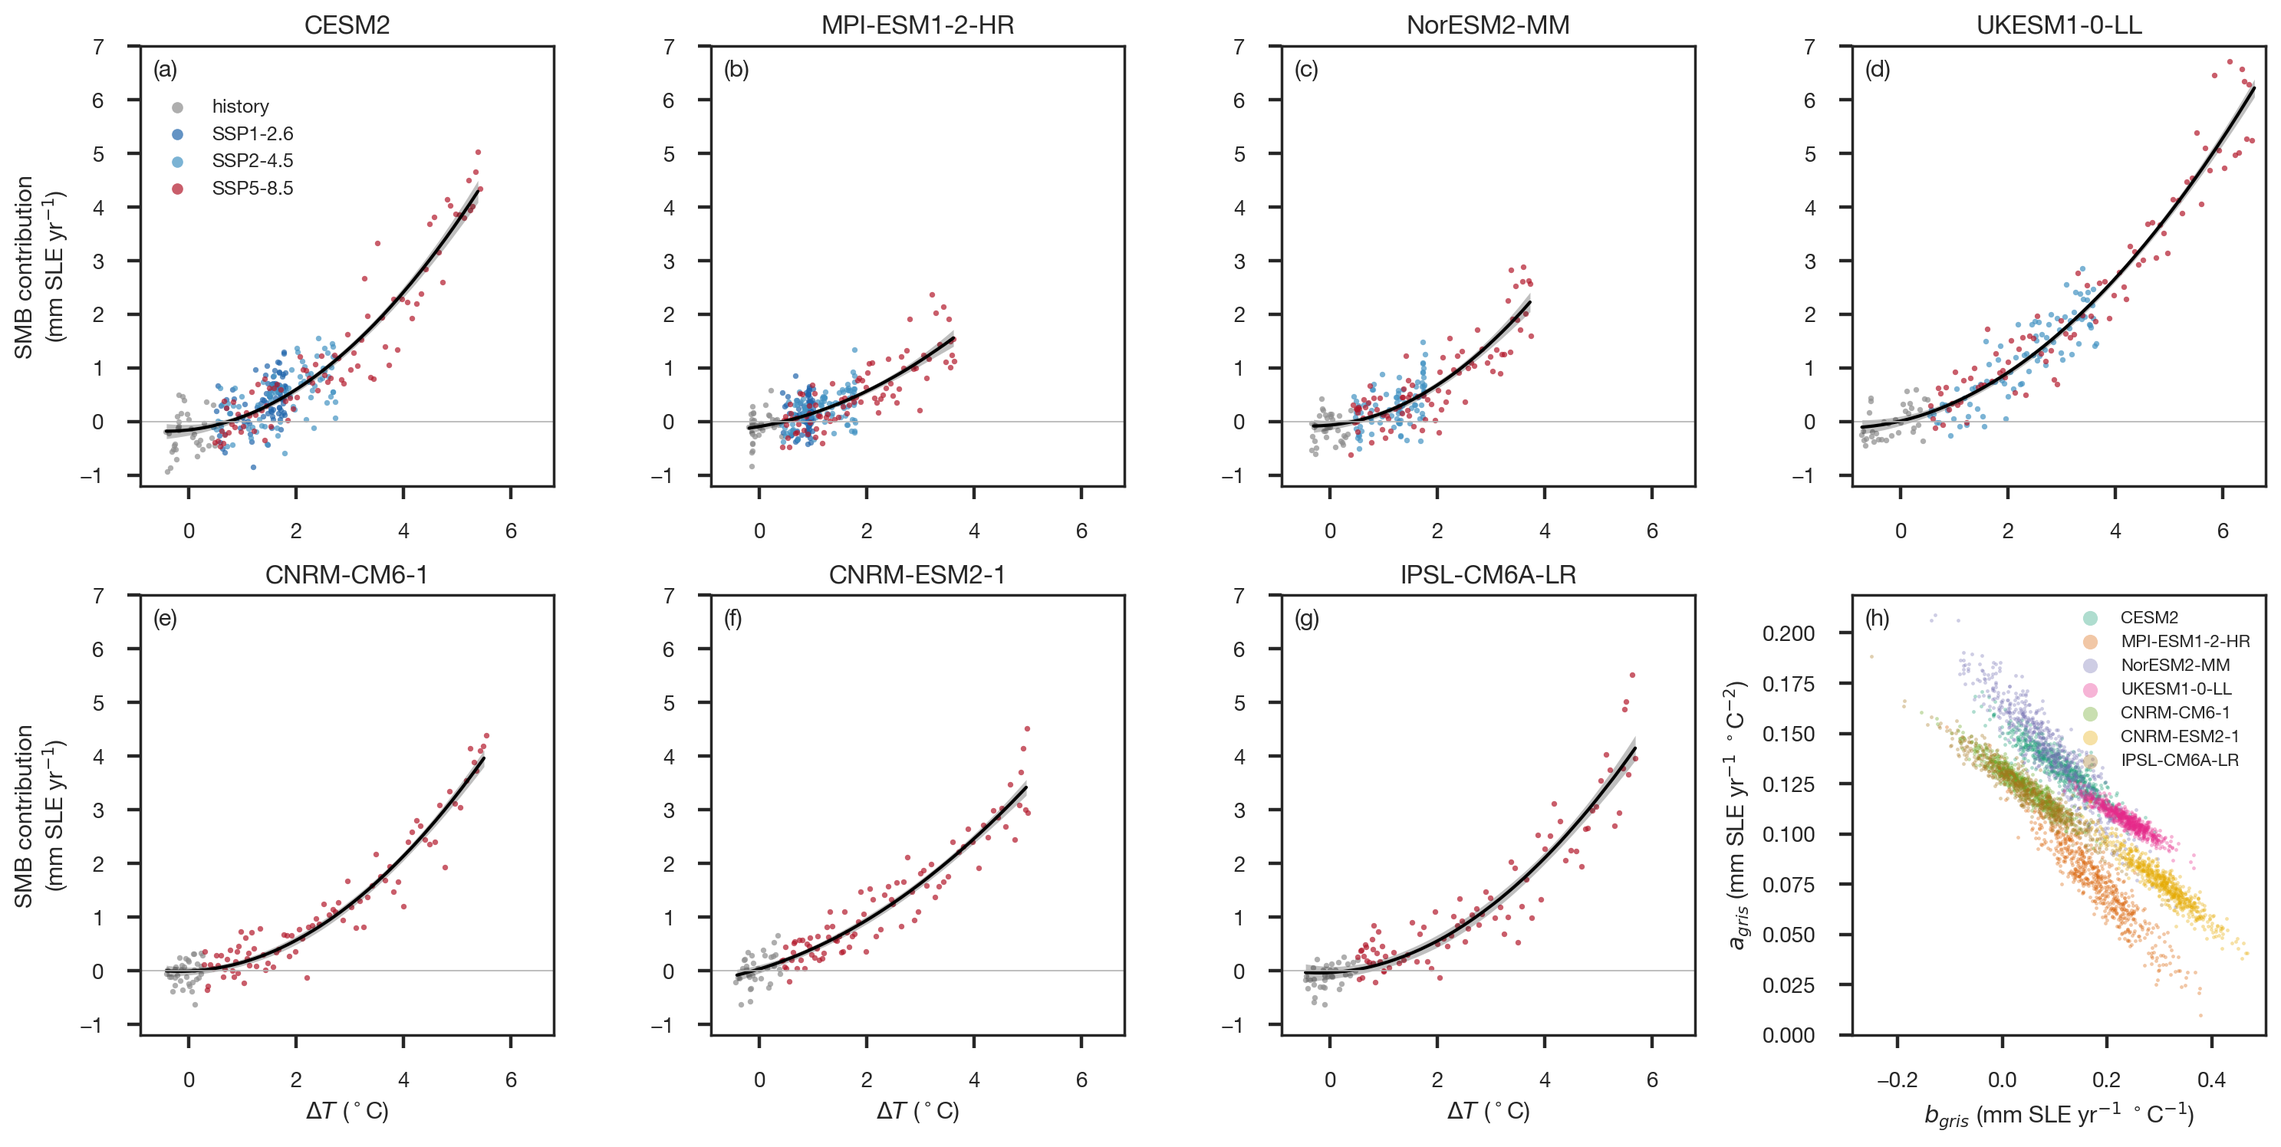
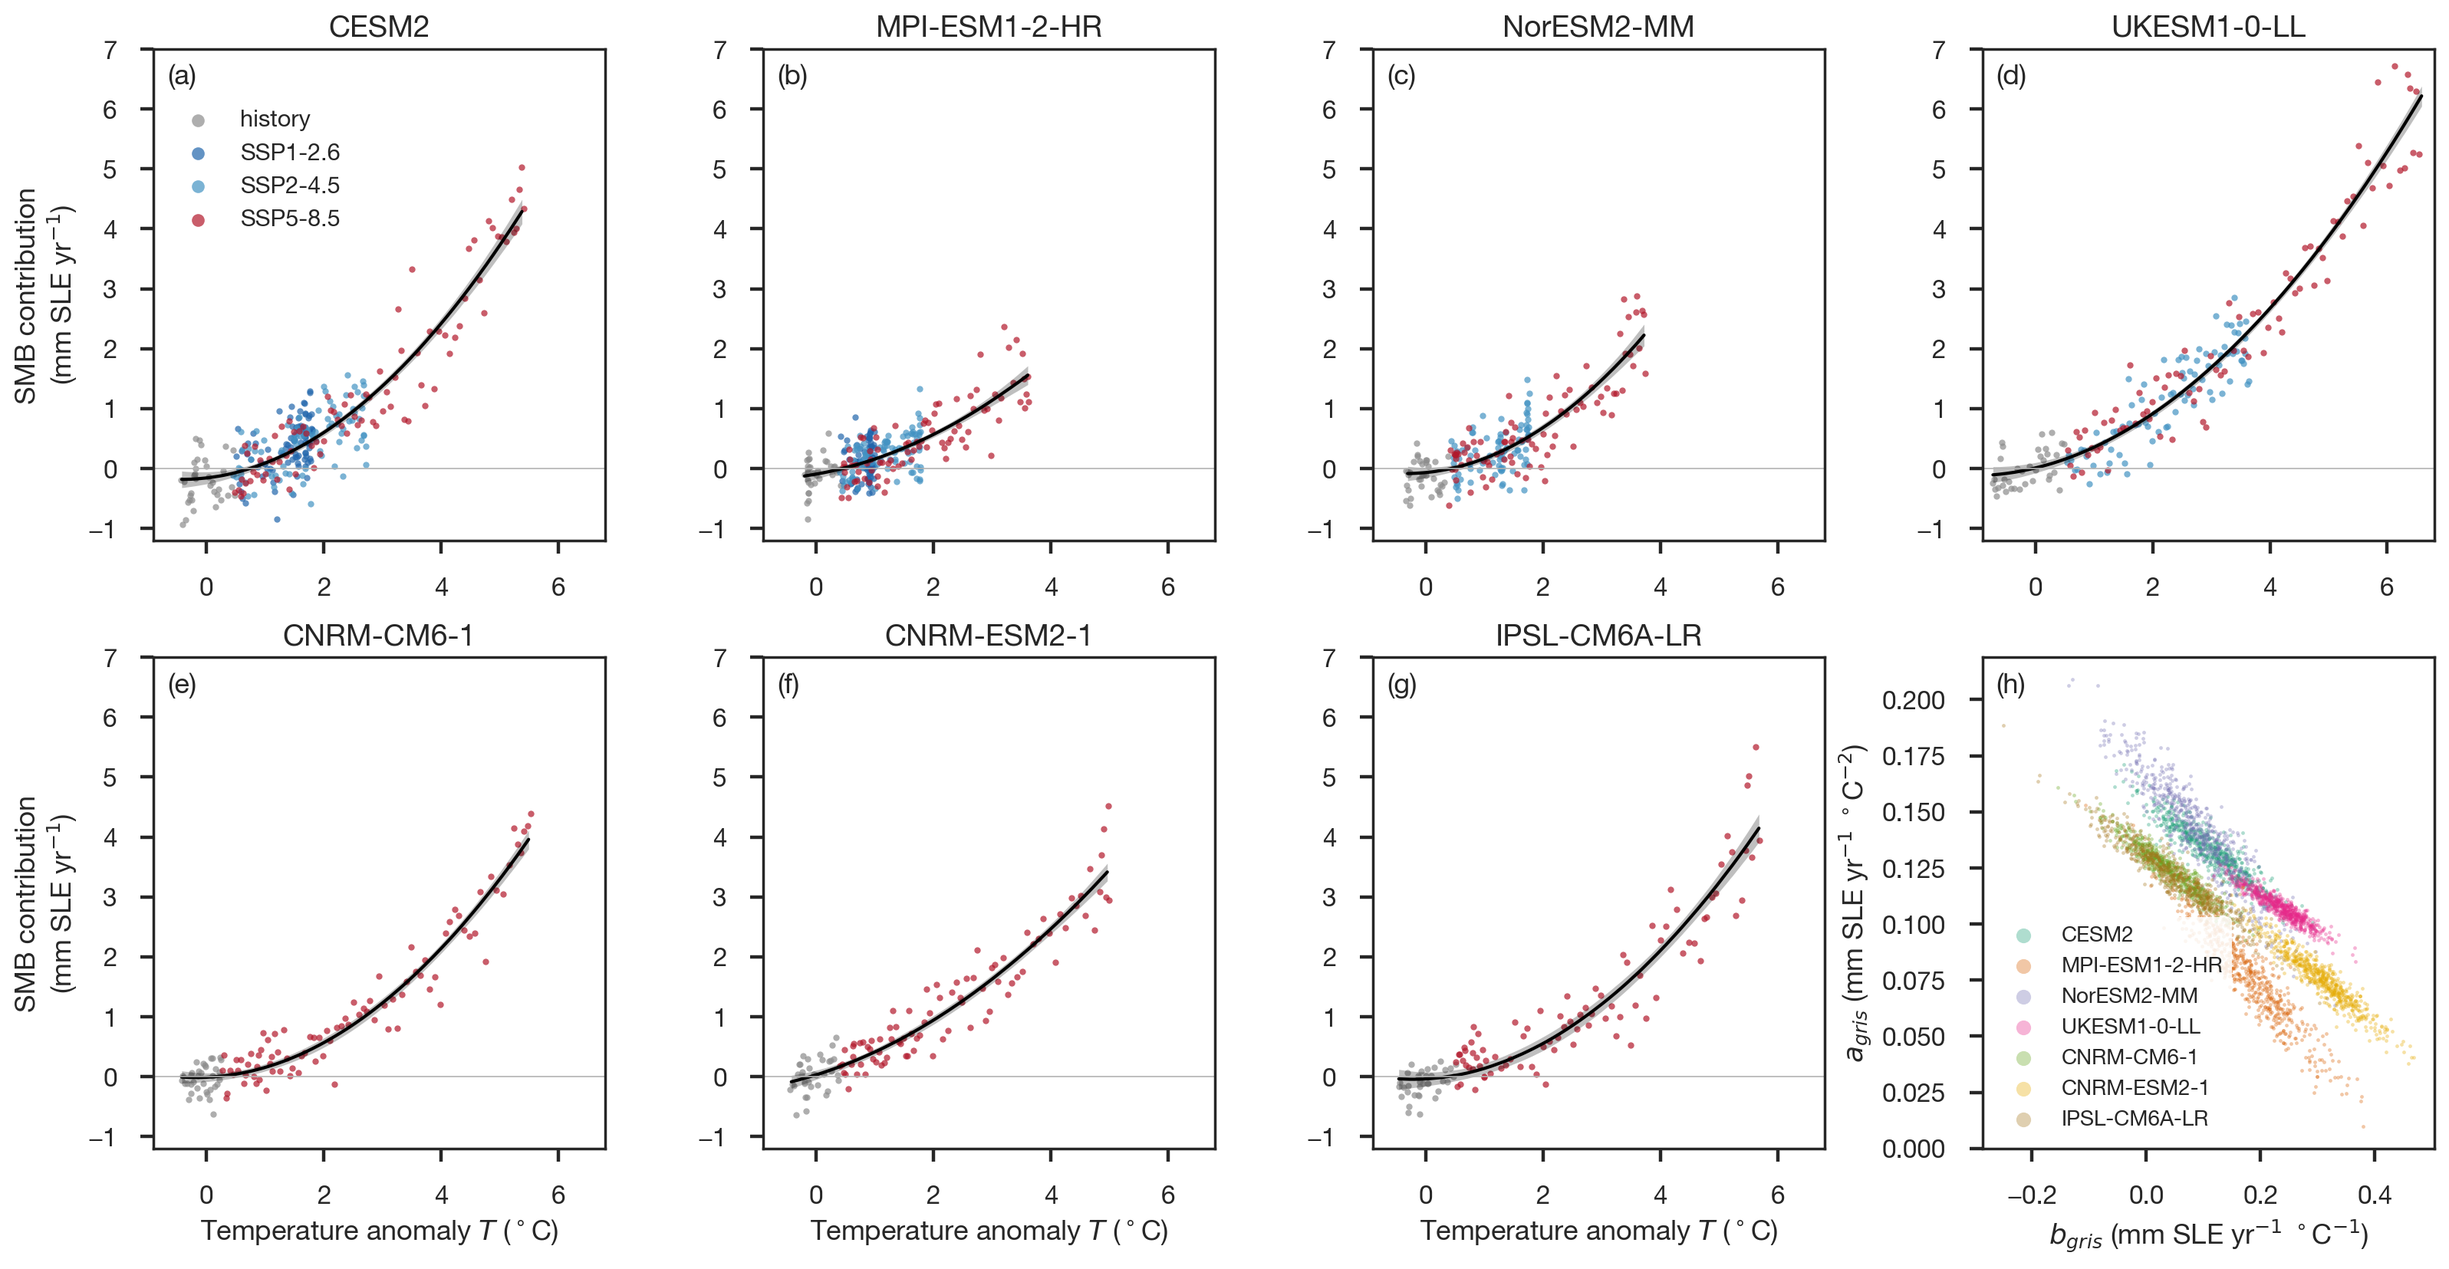
Use T for the GMST anomaly in the Greenland SMB emulator text and Fig. S6
- The supplement's emulator equation, text and the Fig. S6 caption and
  axes use T for the GMST anomaly, matching Fig. 1. The Delta T entry in
  the variables table now refers to the EAIS SMB model only.
- Fig. S6 fonts are 2 pt larger.
- The PROTECT sentence points to the public data server.
- .gitignore lists the WAIS ocean-prototype scripts, data and figures.

diff --git a/slr_forecast/manuscripts/00_ddpi_slrforecast2026/v1/01_slr_forecast_intervention2026_supp.tex b/slr_forecast/manuscripts/00_ddpi_slrforecast2026/v1/01_slr_forecast_intervention2026_supp.tex
@@ -52,8 +52,8 @@ All component models are calibrated against published observational products (Ta
 \item \textbf{Global mean sea level:} NASA satellite altimetry (TOPEX/Jason, 1993--2025; \citealp{Beckley2017,Hamlington2020}), with the Frederikse et~al.~\citeyearpar{Frederikse2020} tide-gauge reconstruction (1900--2018) and the Dangendorf et~al.~\citeyearpar{Dangendorf2024} reconstruction (1900--2021) for pre-satellite validation. None of these records enters any component calibration.
 \item \textbf{Ocean thermal expansion:} NOAA thermosteric sea level (doi:10.7289/V53F4MVP), 0--700\,m (1955--2025) and 0--2000\,m (2005--2025) \citep{Levitus2012}. Both records are scaled by 1.14 before fitting. This corrects the 14\% low bias that \citet{Li2022} find in thermosteric trends computed with linear vertical interpolation. A residual structural uncertainty of 5\% of the corrected signal is retained. The 700--2000\,m layer is carried by the 0--2000\,m record from 2005 onward and by the deep layer of the two-layer model at earlier times. A constant $0.07 \pm 0.04$~mm\,yr$^{-1}$ \citep{Purkey2010, Desbruyeres2016} is added over the full record for the contribution below 2000\,m. Two reconstructions of global-mean steric sea level are withheld for validation, from Frederikse et~al.~\citeyearpar{Frederikse2020} (1900--2018) and Dangendorf et~al.~\citeyearpar{Dangendorf2024} (1900--2021). Over 1957--2018 the Frederikse et~al.~reconstruction draws on the same archive of in situ profiles as the NOAA record \citep{Levitus2012, Ishii2017, Cheng2016}, so it is not fully independent of it there. The Dangendorf et~al.~reconstruction uses no in situ ocean temperature or salinity. Its steric term is the residual of a sea-level budget whose barystatic input is from \citet{Frederikse2020}. Neither reconstruction carries the 1.14 scaling.
 \item \textbf{Glaciers:} GlaMBIE global consensus (The GlaMBIE Team~\citeyear{GlaMBIE2025}), combining glaciological field measurements, satellite altimetry, DEM differencing, and GRACE/GRACE-FO gravimetry across all 19 RGI regions. We use 2000--2023 (24 annual points) for calibration.
-\item \textbf{Greenland:} \citet{Mouginot2019} SMB and discharge (1972--2018), of which the 44 years from 1975 enter the discharge fit, the earlier years being excluded because the lagged ocean forcing is undefined before then. \citet{Mankoff2021} discharge (1986--2023) and the IMBIE-3 Greenland record (1972--2023; \citet{Otosaka2026}) are withheld for validation. Subsurface ocean temperature from EN4 v4.2.2 with g10 bias corrections (200--500\,m, Greenland peripheral waters, 1970--2021; \citet{Good2013}). Surface temperature from Berkeley Earth \citep{Rohde2020}. Greenland SMB is projected with a statistical emulator of the regional climate model MARv3.12 driven by seven CMIP6 global climate models (CESM2, MPI-ESM1-2-HR, NorESM2-MM, UKESM1-0-LL, CNRM-CM6-1, CNRM-ESM2-1, and IPSL-CM6A-LR). These simulations were produced for the PROTECT project and are distributed by X.~Fettweis (\url{http://ftp.climato.be/fettweis/MARv3.12/Greenland/PROTECT}). We use the annual SMB of the contiguous ice sheet, excluding peripheral glaciers, over 1980--2014 and over each available SSP to 2100, together with the global mean surface temperature of each driving model from the CMIP6 archive. The \citet{Mankoff2021} SMB (1986--2023), the mean of three regional climate models driven by reanalysis, is withheld for validation of the emulator.
-% TODO: add a reference for the PROTECT MAR ensemble (e.g. Boberg et al. 2026, TC 20, 2947; not yet in the Zotero library).
+\item \textbf{Greenland:} \citet{Mouginot2019} SMB and discharge (1972--2018), of which the 44 years from 1975 enter the discharge fit, the earlier years being excluded because the lagged ocean forcing is undefined before then. \citet{Mankoff2021} discharge (1986--2023) and the IMBIE-3 Greenland record (1972--2023; \citet{Otosaka2026}) are withheld for validation. Subsurface ocean temperature from EN4 v4.2.2 with g10 bias corrections (200--500\,m, Greenland peripheral waters, 1970--2021; \citet{Good2013}). Surface temperature from Berkeley Earth \citep{Rohde2020}. Greenland SMB is projected with a statistical emulator of the regional climate model MARv3.12 driven by seven CMIP6 global climate models (CESM2, MPI-ESM1-2-HR, NorESM2-MM, UKESM1-0-LL, CNRM-CM6-1, CNRM-ESM2-1, and IPSL-CM6A-LR). These simulations were produced for the PROTECT project and are publicly available at \url{http://ftp.climato.be/fettweis/MARv3.12/Greenland/PROTECT}. We use the annual SMB of the contiguous ice sheet, excluding peripheral glaciers, over 1980--2014 and over each available SSP to 2100, together with the global mean surface temperature of each driving model from the CMIP6 archive. The \citet{Mankoff2021} SMB (1986--2023), the mean of three regional climate models driven by reanalysis, is withheld for validation of the emulator.
+% TODO: add a reference for the PROTECT MAR ensemble (candidate: Boberg et al. 2026, The Cryosphere 20, 2947--2960, doi:10.5194/tc-20-2947-2026; check it describes these runs, then add from the Zotero PDF).
 \item \textbf{Antarctica:} IMBIE-3 mass balance (1979--2023, 45 annual points per region; \citet{Otosaka2026}), partitioned into West Antarctica, East Antarctica, and the Antarctic Peninsula.
 \item \textbf{Terrestrial water storage:} \citet{Frederikse2020} reconstruction, used only from 2003 onward, the period over which it derives from GRACE and GRACE-FO observations rather than from models. Prior to 2003, the reconstructed TWS curves are largely unconstrained by independent observations. 
 \item \textbf{Temperature scenarios:} IPCC AR6 assessed GMST projections (SSP1-2.6, SSP2-4.5, SSP3-7.0, SSP5-8.5; \citet{Lee2021}).
@@ -129,7 +129,7 @@ Symbol & Description & Value & Units & Source \\
 \multicolumn{5}{@{}l}{\textbf{General}}\\
 $t$ & Time & --- & yr & --- \\
 $T$ & Global mean surface temperature (GMST) anomaly, referenced to 1850--1900 & --- & $^\circ$C & \citet{Rohde2020} \\
-$\Delta T$ & GMST anomaly forcing the surface-mass-balance models, relative to 1995--2005. For Greenland it is an 11-year centered mean & --- & $^\circ$C & --- \\
+$\Delta T$ & GMST anomaly forcing the EAIS surface-mass-balance model, relative to 1995--2005 & --- & $^\circ$C & --- \\
 $t_0$ & Study baseline year, to which cumulative contributions are referenced in the component models & 2000 & yr & --- \\
 $t_0$ & Forecast origin, the most recent year of satellite altimetry in the blended forecast & 2025 & yr & --- \\
 $i$ & Index over observations, outlet glaciers, or Monte Carlo samples & --- & --- & --- \\
@@ -290,16 +290,16 @@ This section collects the parameter posteriors of every calibrated component mod
 \subsection{Greenland surface mass balance emulator}
 \label{s:greenland_smb_emulator}
 
-We project Greenland SMB with a statistical emulator of the regional climate model MARv3.12 driven by seven CMIP6 global climate models (CESM2, MPI-ESM1-2-HR, NorESM2-MM, UKESM1-0-LL, CNRM-CM6-1, CNRM-ESM2-1, and IPSL-CM6A-LR). For each GCM, we fit the annual SMB contribution of the contiguous ice sheet as a quadratic in that GCM's own GMST anomaly $\Delta T$, relative to 1995--2005 and smoothed with an 11-year centered mean,
+We project Greenland SMB with a statistical emulator of the regional climate model MARv3.12 driven by seven CMIP6 global climate models (CESM2, MPI-ESM1-2-HR, NorESM2-MM, UKESM1-0-LL, CNRM-CM6-1, CNRM-ESM2-1, and IPSL-CM6A-LR). For each GCM, we fit the annual SMB contribution of the contiguous ice sheet as a quadratic in that GCM's own GMST anomaly $T$, relative to 1995--2005 and smoothed with an 11-year centered mean,
 \begin{equation}
-\dot{H}_{\mathrm{smb}} = a_{gris}\,\Delta T^2 + b_{gris}\,\Delta T + c_{gris} ,
+\dot{H}_{\mathrm{smb}} = a_{gris}\,T^2 + b_{gris}\,T + c_{gris} ,
 \label{eq:smb_emulator}
 \end{equation}
 with $\dot{H}_{\mathrm{smb}}$ in mm\,SLE\,yr$^{-1}$ and positive for sea-level rise. Each fit pools the history run (1980--2014) with every SSP run available for that GCM (2015--2100). Each run is a separate segment with first-order autoregressive residuals. The posterior of $a_{gris}$, $b_{gris}$, and the intercept is analytic under a weak normal-inverse-gamma prior, and the autocorrelation is integrated over a grid weighted by marginal likelihood. We tested adding a lag between warming and the SMB response for CESM2 and MPI-ESM1-2-HR, the two GCMs with all three scenarios. It did not improve the fits, so the emulator has none.
 
 In projections, we replace the intercept fitted to MAR with $c_{gris}$, the observed 1995--2005 SMB contribution of \citet{Mouginot2019}. The emulator supplies the change in SMB with warming, and the observations supply its present level. The observed 11-year mean carries weather noise. Over 1972--2018, Mouginot SMB scatters about a linear fit to the emulator's forced response with a standard deviation of 96~Gt\,yr$^{-1}$ and a lag-one autocorrelation of 0.27, which gives an 11-year mean a standard deviation of 37~Gt\,yr$^{-1}$. We therefore draw $c_{gris} = -1.03 \pm 0.10$~mm\,SLE\,yr$^{-1}$ (1$\sigma$) separately for each member. Each member also draws one GCM, with equal weight, and one posterior draw of $a_{gris}$ and $b_{gris}$ for that GCM. We do not scale or tune the emulator to the observed SMB. Because MAR is the only regional climate model in the ensemble, the spread between regional climate models is not sampled. Under the same forcing, RACMO gives less SMB loss than MAR \citep{Glaude2024}.
 
-A single quadratic in $\Delta T$ describes every scenario of a given GCM (Fig.~\ref{fig:greenland_smb_fit}). Within each GCM, $a_{gris}$ and $b_{gris}$ are strongly anticorrelated, with correlation coefficients of $-0.93$ to $-0.95$, so the coefficients are best compared through the SMB contribution they imply. At $\Delta T = 3\,^\circ$C, the medians range from 1.23~mm\,SLE\,yr$^{-1}$ (MPI-ESM1-2-HR) to 1.68~mm\,SLE\,yr$^{-1}$ (UKESM1-0-LL) above the 1995--2005 level.
+A single quadratic in $T$ describes every scenario of a given GCM (Fig.~\ref{fig:greenland_smb_fit}). Within each GCM, $a_{gris}$ and $b_{gris}$ are strongly anticorrelated, with correlation coefficients of $-0.93$ to $-0.95$, so the coefficients are best compared through the SMB contribution they imply. At $T = 3\,^\circ$C, the medians range from 1.23~mm\,SLE\,yr$^{-1}$ (MPI-ESM1-2-HR) to 1.68~mm\,SLE\,yr$^{-1}$ (UKESM1-0-LL) above the 1995--2005 level.
 
 We test the emulator out of sample by leaving out each GCM in turn and predicting its runs from the other six (Fig.~\ref{fig:greenland_smb_lomo}). As in the projections, the prediction is anchored to the withheld run's own 1995--2005 mean. Over 2015--2100, all 13 withheld runs fall within the 90\% predictive range. The differences between MAR and the emulator range from $-19.7$ to $+28.7$~mm SLE, with a median absolute difference of 14.0~mm. The largest are for UKESM1-0-LL, at $+17.6$~mm (SSP2-4.5) and $+28.7$~mm (SSP5-8.5), where the other six GCMs underpredict its mass loss.
 
@@ -308,7 +308,7 @@ Driven by observed GMST, the emulator's forced response declines more slowly tha
 \begin{figure}[ht]
 \centering
 \includegraphics[width=\textwidth]{supp_greenland_smb_emulator_fit.png}
-\caption{\textbf{Greenland SMB emulator fits.} \textbf{(a--g)} Annual SMB contribution of the contiguous Greenland ice sheet simulated by MARv3.12 driven by each of seven CMIP6 GCMs, relative to the 1995--2005 mean of that GCM's history run, against the GCM's own GMST anomaly $\Delta T$ (11-year centered mean, relative to 1995--2005). Points are colored by experiment. Black curves show the posterior median of the fitted quadratic, including the fitted intercept, and gray bands its 90\% credible interval. \textbf{(h)} Joint posterior of $a_{gris}$ and $b_{gris}$ for each GCM. All quantities are contributions to GMSL.}
+\caption{\textbf{Greenland SMB emulator fits.} \textbf{(a--g)} Annual SMB contribution of the contiguous Greenland ice sheet simulated by MARv3.12 driven by each of seven CMIP6 GCMs, relative to the 1995--2005 mean of that GCM's history run, against the GCM's own GMST anomaly $T$ (11-year centered mean, relative to 1995--2005). Points are colored by experiment. Black curves show the posterior median of the fitted quadratic, including the fitted intercept, and gray bands its 90\% credible interval. \textbf{(h)} Joint posterior of $a_{gris}$ and $b_{gris}$ for each GCM. All quantities are contributions to GMSL.}
 \label{fig:greenland_smb_fit}
 \end{figure}
 

diff --git a/slr_forecast/scripts/plot_supp_greenland_smb_emulator.py b/slr_forecast/scripts/plot_supp_greenland_smb_emulator.py
@@ -12,7 +12,7 @@ positive for sea-level rise, with a the quadratic and b the linear term,
     SMB contribution = c_gris + b_gris dT + a_gris dT^2,
 
 so b_gris = -b1 / 362.5 and a_gris = -b2 / 362.5 for the module's mass-gain
-coefficients (b1, b2) in Gt/yr.  dT is the GMST anomaly relative to
+coefficients (b1, b2) in Gt/yr.  T (dT in the module) is the GMST anomaly relative to
 1995-2005 (11-yr centred mean).  The member draws (seed 600) and the anchor
 draws (seed 602) are those of component_greenland.ipynb.
 
@@ -61,13 +61,13 @@ def segments_xy(g, mar, temp):
 
 # ── Figure 1: fits and coefficients ──────────────────────────────────────
 def fig_fit(emu, mar, temp):
-    fig, axes = plt.subplots(2, 4, figsize=(15, 7.6))
+    fig, axes = plt.subplots(2, 4, figsize=(16, 8.4))
     axes = axes.ravel()
     xg = np.linspace(-0.8, 6.7, 200)
     for k, g in enumerate(S.GCMS):
         ax = axes[k]
         for n, x, y in segments_xy(g, mar, temp):
-            ax.scatter(x, to_slr(y), s=7, color=SEG_COLOR[n], alpha=0.7, lw=0,
+            ax.scatter(x, to_slr(y), s=9, color=SEG_COLOR[n], alpha=0.7, lw=0,
                        label='history' if n == 'history' else SCEN_LABEL[n])
         f = emu['fits'][g]
         lo, hi = f['x_range']
@@ -76,19 +76,19 @@ def fig_fit(emu, mar, temp):
         curve = to_slr(B[:, [0]] + B[:, [1]] * xs + B[:, [2]] * xs**2)
         ax.fill_between(xs, *np.percentile(curve, [5, 95], 0), color='k', alpha=0.25, lw=0)
         ax.plot(xs, np.median(curve, 0), 'k', lw=1.5)
-        ax.set_title(g, fontsize=12)
+        ax.set_title(g, fontsize=14)
         ax.axhline(0, color='0.7', lw=0.6)
         ax.set_xlim(-0.9, 6.8); ax.set_ylim(-1.2, 7.0)
         if k % 4 == 0:
-            ax.set_ylabel('SMB contribution\n(mm SLE yr$^{-1}$)', fontsize=11)
+            ax.set_ylabel('SMB contribution\n(mm SLE yr$^{-1}$)', fontsize=13)
         if k >= 4:
-            ax.set_xlabel(r'$\Delta T$ ($^\circ$C)', fontsize=11)
-        ax.tick_params(labelsize=10)
+            ax.set_xlabel(r'Temperature anomaly $T$ ($^\circ$C)', fontsize=13)
+        ax.tick_params(labelsize=12)
     h, l = axes[0].get_legend_handles_labels()
     h2, l2 = axes[1].get_legend_handles_labels()
     seen = dict(zip(l + l2, h + h2))
     order = [s for s in ['history', 'SSP1-2.6', 'SSP2-4.5', 'SSP5-8.5'] if s in seen]
-    axes[0].legend([seen[s] for s in order], order, fontsize=9, loc='upper left',
+    axes[0].legend([seen[s] for s in order], order, fontsize=11, loc='upper left',
                    bbox_to_anchor=(0.0, 0.92), markerscale=2, frameon=False)
 
     ax = axes[7]
@@ -96,13 +96,14 @@ def fig_fit(emu, mar, temp):
         B = emu['fits'][g]['beta'][:600]
         ax.scatter(to_slr(B[:, 1]), to_slr(B[:, 2]), s=3, color=GCM_COLOR[g], alpha=0.35,
                    lw=0, label=g)
-    ax.set_xlabel(r'$b_{gris}$ (mm SLE yr$^{-1}$ $^\circ$C$^{-1}$)', fontsize=11)
-    ax.set_ylabel(r'$a_{gris}$ (mm SLE yr$^{-1}$ $^\circ$C$^{-2}$)', fontsize=11)
-    ax.tick_params(labelsize=10)
-    ax.legend(fontsize=8, markerscale=4, frameon=False, loc='upper right')
+    ax.set_xlabel(r'$b_{gris}$ (mm SLE yr$^{-1}$ $^\circ$C$^{-1}$)', fontsize=13)
+    ax.set_ylabel(r'$a_{gris}$ (mm SLE yr$^{-1}$ $^\circ$C$^{-2}$)', fontsize=13)
+    ax.tick_params(labelsize=12)
+    ax.legend(fontsize=10, markerscale=4, frameon=True, framealpha=0.85,
+              facecolor='white', edgecolor='none', loc='lower left')
     for k, ax in enumerate(axes):
         ax.text(0.03, 0.97, f'({chr(97 + k)})', transform=ax.transAxes,
-                fontweight='bold', fontsize=11, va='top')
+                fontweight='bold', fontsize=13, va='top')
     fig.tight_layout()
     out = FIG / 'supp_greenland_smb_emulator_fit.png'
     fig.savefig(out, dpi=200, bbox_inches='tight'); plt.close(fig)
